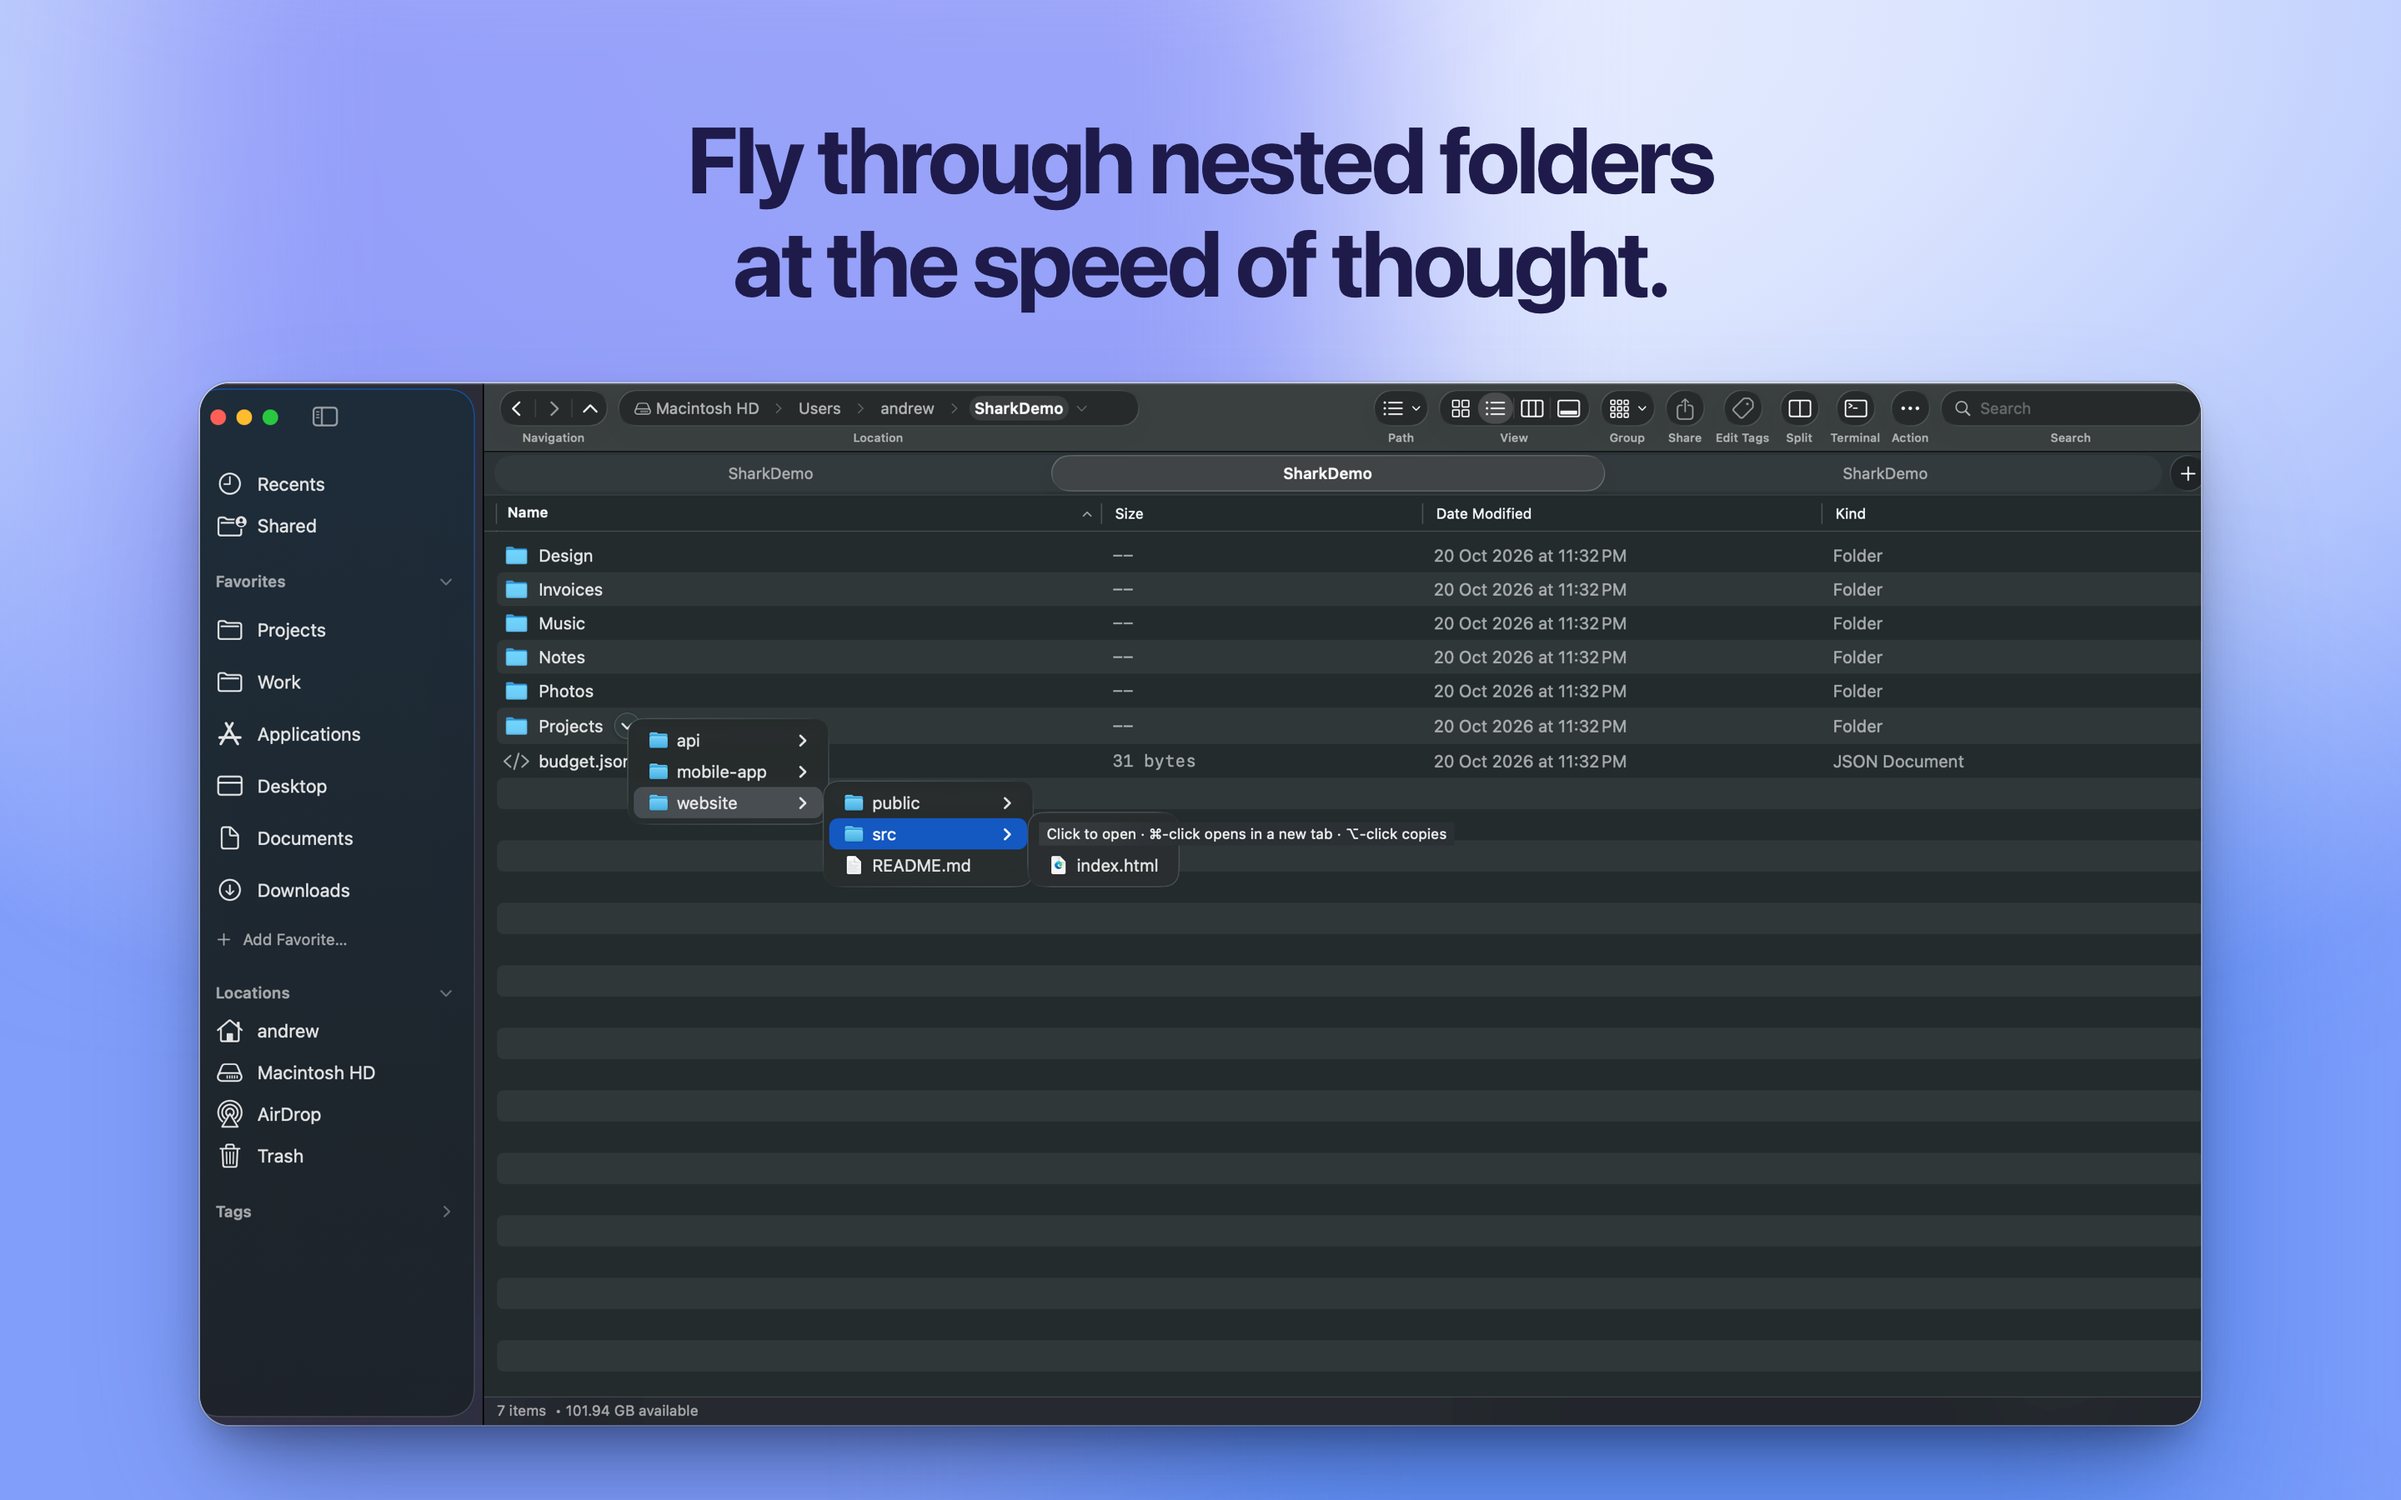
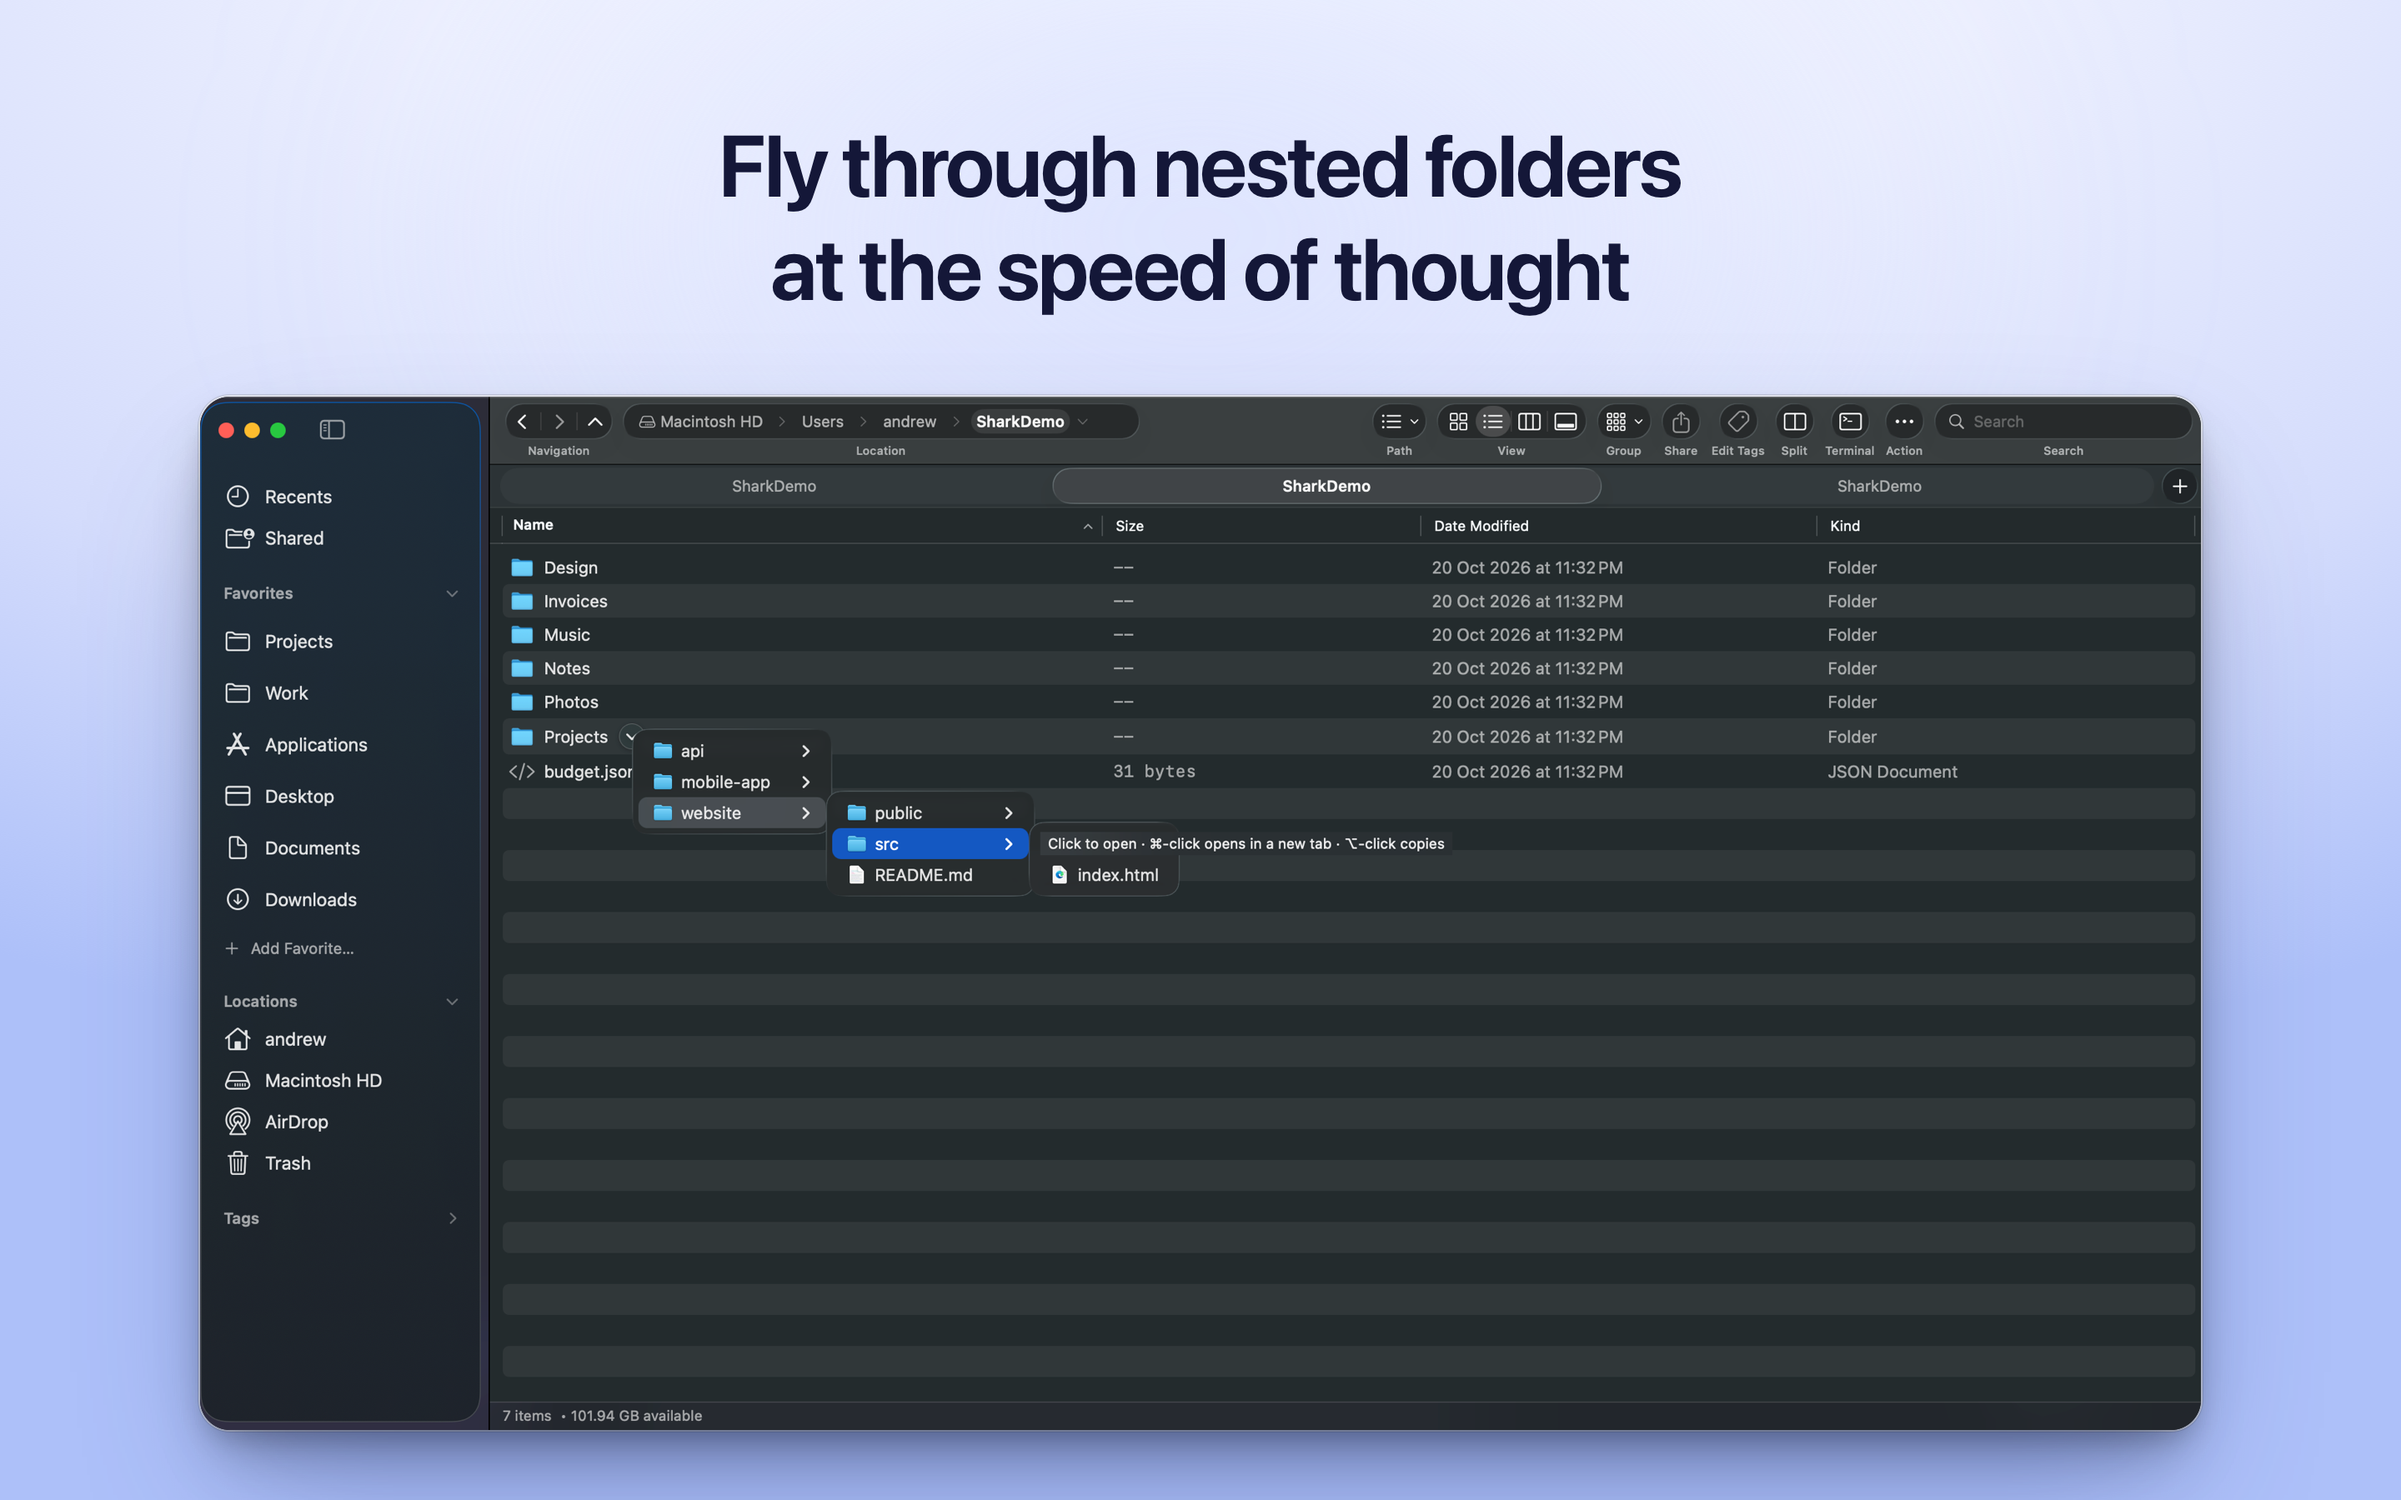
docs(screenshots): soften typography, relaxed line-height and airy contrast for optical comfort

diff --git a/scripts/generate-screenshots.swift b/scripts/generate-screenshots.swift
@@ -6,8 +6,7 @@ struct ScreenshotConfig {
     let headline: String
     let textColor: String
     let bgGradient: String
-    let glowTL: String
-    let glowBR: String
+    let glowColor: String
     let shadowAmbient: String
     let sourceImage: String
 }
@@ -15,42 +14,38 @@ struct ScreenshotConfig {
 let configs: [ScreenshotConfig] = [
     ScreenshotConfig(
         filename: "01-tabs-and-split.png",
-        headline: "Browse two folders side by side.<br>With infinite tabs.",
-        textColor: "#0C4A6E",
-        bgGradient: "radial-gradient(85% 75% at 50% 0%, #E0F2FE 0%, #BAE6FD 38%, #7DD3FC 72%, #38BDF8 100%)",
-        glowTL: "rgba(56, 189, 248, 0.8)",
-        glowBR: "rgba(2, 132, 199, 0.45)",
-        shadowAmbient: "rgba(3, 105, 161, 0.38)",
+        headline: "Browse two folders side by side<br>with infinite tabs",
+        textColor: "#0F1D36",
+        bgGradient: "radial-gradient(100% 85% at 50% -10%, #F6FAFF 0%, #E5F0FF 35%, #C7DDF8 70%, #9BC6F7 100%)",
+        glowColor: "rgba(185, 218, 255, 0.65)",
+        shadowAmbient: "rgba(12, 45, 95, 0.32)",
         sourceImage: "docs/screenshots/tabs-and-split.png"
     ),
     ScreenshotConfig(
         filename: "02-hover-preview.png",
-        headline: "Preview documents, code, and media<br>without opening them.",
-        textColor: "#45131A",
-        bgGradient: "radial-gradient(85% 75% at 50% 0%, #FFF1EE 0%, #FED7D0 38%, #FCAFA2 72%, #F88779 100%)",
-        glowTL: "rgba(251, 146, 60, 0.8)",
-        glowBR: "rgba(239, 68, 68, 0.45)",
-        shadowAmbient: "rgba(153, 27, 27, 0.35)",
+        headline: "Preview documents, code, and media<br>without opening them",
+        textColor: "#2E1418",
+        bgGradient: "radial-gradient(100% 85% at 50% -10%, #FFF8F6 0%, #FEECE8 35%, #FED3C9 70%, #FBAFA3 100%)",
+        glowColor: "rgba(254, 215, 205, 0.65)",
+        shadowAmbient: "rgba(120, 30, 40, 0.30)",
         sourceImage: "docs/screenshots/hover-preview.png"
     ),
     ScreenshotConfig(
         filename: "03-subfolder-navigation.png",
-        headline: "Fly through nested folders<br>at the speed of thought.",
-        textColor: "#1E1B4B",
-        bgGradient: "radial-gradient(85% 75% at 50% 0%, #EEF2FF 0%, #DBE4FE 38%, #B2C5FD 72%, #819EFA 100%)",
-        glowTL: "rgba(129, 140, 248, 0.8)",
-        glowBR: "rgba(59, 130, 246, 0.45)",
-        shadowAmbient: "rgba(30, 58, 138, 0.38)",
+        headline: "Fly through nested folders<br>at the speed of thought",
+        textColor: "#141738",
+        bgGradient: "radial-gradient(100% 85% at 50% -10%, #F7F9FF 0%, #ECEFFE 35%, #D4DCFC 70%, #ADC0F9 100%)",
+        glowColor: "rgba(205, 215, 255, 0.65)",
+        shadowAmbient: "rgba(25, 45, 115, 0.32)",
         sourceImage: "docs/screenshots/subfolder-menu.png"
     ),
     ScreenshotConfig(
         filename: "04-integrated-terminal.png",
-        headline: "A built-in terminal synced right<br>to your active folder.",
-        textColor: "#064E3B",
-        bgGradient: "radial-gradient(85% 75% at 50% 0%, #ECFDF5 0%, #D1FAE5 38%, #A7F3D0 72%, #6EE7B7 100%)",
-        glowTL: "rgba(52, 211, 153, 0.8)",
-        glowBR: "rgba(16, 185, 129, 0.45)",
-        shadowAmbient: "rgba(6, 78, 59, 0.35)",
+        headline: "An integrated terminal<br>synced to your active folder",
+        textColor: "#0D2B20",
+        bgGradient: "radial-gradient(100% 85% at 50% -10%, #F4FBF7 0%, #E4F7ED 35%, #C2EEDB 70%, #94DFBE 100%)",
+        glowColor: "rgba(185, 238, 215, 0.65)",
+        shadowAmbient: "rgba(8, 65, 48, 0.30)",
         sourceImage: "docs/screenshots/terminal.png"
     )
 ]
@@ -71,54 +66,46 @@ func generateHTML(config: ScreenshotConfig, base64Image: String) -> String {
         display: flex;
         flex-direction: column;
         align-items: center;
-        padding-top: 64px;
+        padding-top: 68px;
         font-family: -apple-system, BlinkMacSystemFont, "SF Pro Display", "SF Pro", "Helvetica Neue", sans-serif;
         -webkit-font-smoothing: antialiased;
         background: \(config.bgGradient);
       }
-      .mesh-glow-tl {
+      .ambient-glow {
         position: absolute;
-        top: -120px;
-        left: 5%;
-        width: 750px;
+        top: -160px;
+        left: 50%;
+        transform: translateX(-50%);
+        width: 1000px;
         height: 600px;
-        background: \(config.glowTL);
-        filter: blur(85px);
-        pointer-events: none;
-      }
-      .mesh-glow-br {
-        position: absolute;
-        bottom: -120px;
-        right: 5%;
-        width: 700px;
-        height: 550px;
-        background: \(config.glowBR);
-        filter: blur(95px);
+        background: radial-gradient(ellipse at center, \(config.glowColor) 0%, transparent 70%);
+        filter: blur(100px);
         pointer-events: none;
       }
       .headline {
         position: relative;
         z-index: 10;
-        font-size: 56px;
-        font-weight: 700;
-        letter-spacing: -0.038em;
-        line-height: 1.12;
+        font-size: 52px;
+        font-weight: 650;
+        letter-spacing: -0.028em;
+        line-height: 1.2;
         text-align: center;
-        max-width: 980px;
+        max-width: 960px;
         color: \(config.textColor);
-        margin-bottom: 42px;
+        margin-bottom: 46px;
+        text-rendering: optimizeLegibility;
       }
       .window-stage {
         position: relative;
         z-index: 10;
         width: 1200px;
-        height: 625px;
+        height: 620px;
         border-radius: 18px;
         box-shadow: 
           0 45px 110px -20px \(config.shadowAmbient),
-          0 25px 50px -15px rgba(0, 0, 0, 0.40),
-          0 10px 20px -5px rgba(0, 0, 0, 0.20),
-          0 0 0 1px rgba(255, 255, 255, 0.50),
+          0 20px 45px -12px rgba(0, 0, 0, 0.38),
+          0 8px 18px -4px rgba(0, 0, 0, 0.20),
+          0 0 0 1px rgba(255, 255, 255, 0.60),
           0 0 0 1.5px rgba(0, 0, 0, 0.12);
         overflow: hidden;
         background: #14181f;
@@ -133,8 +120,7 @@ func generateHTML(config: ScreenshotConfig, base64Image: String) -> String {
     </style>
     </head>
     <body>
-      <div class="mesh-glow-tl"></div>
-      <div class="mesh-glow-br"></div>
+      <div class="ambient-glow"></div>
       <h1 class="headline">\(config.headline)</h1>
       <div class="window-stage">
         <img src="\(base64Image)" />
